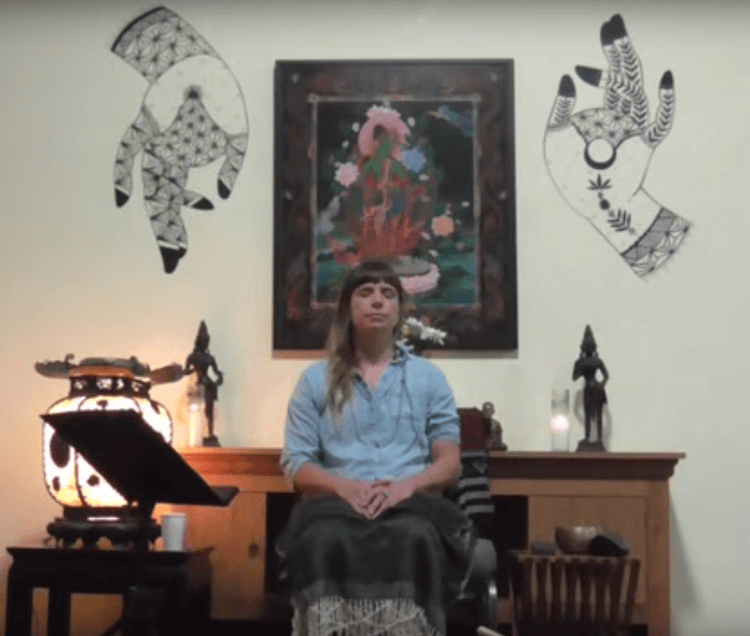
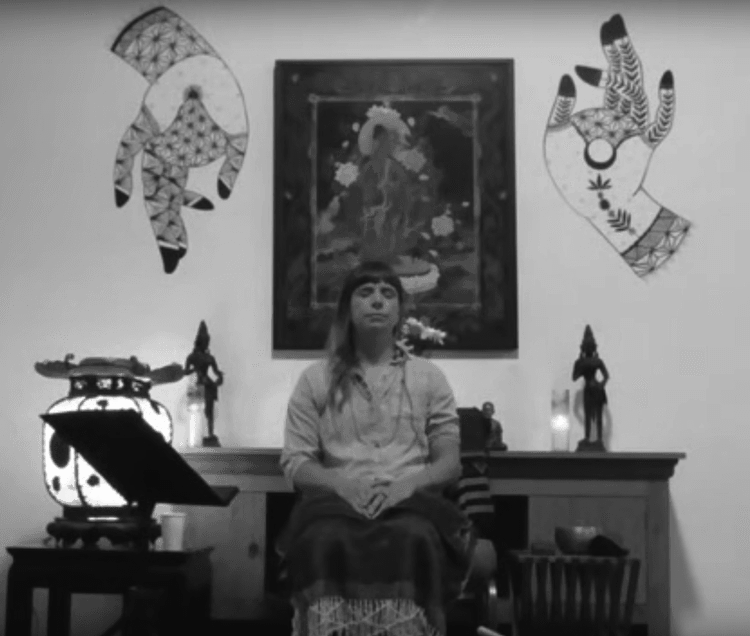
Update images

diff --git a/src/links.js b/src/links.js
@@ -32,7 +32,7 @@ const labelLinks = {
 	}
 };
 const imageUrls = [
-	'img/hhAndEve.jpg',
+	'img/hhAndEve-bw.jpg',
 	'img/eve-meditation.png',
 	'img/google-io.png',
 	'img/ceb-logo.png',
